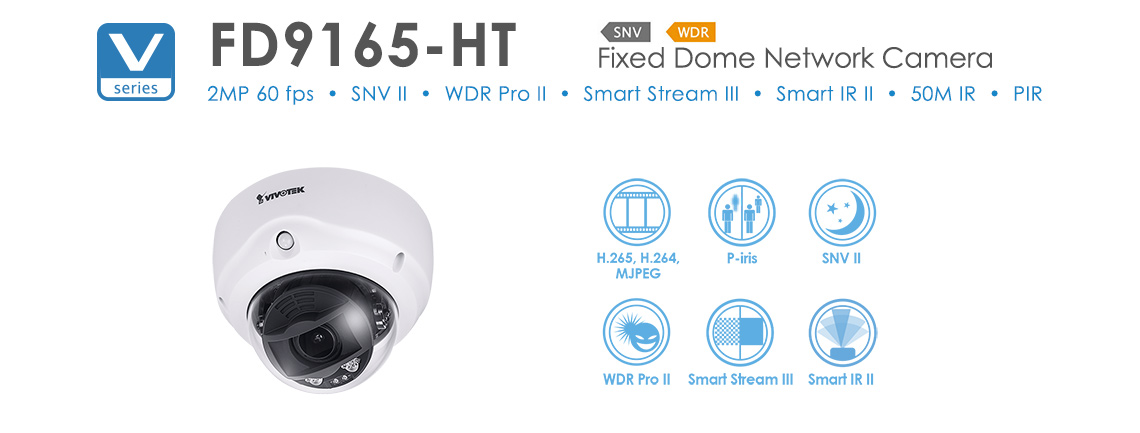
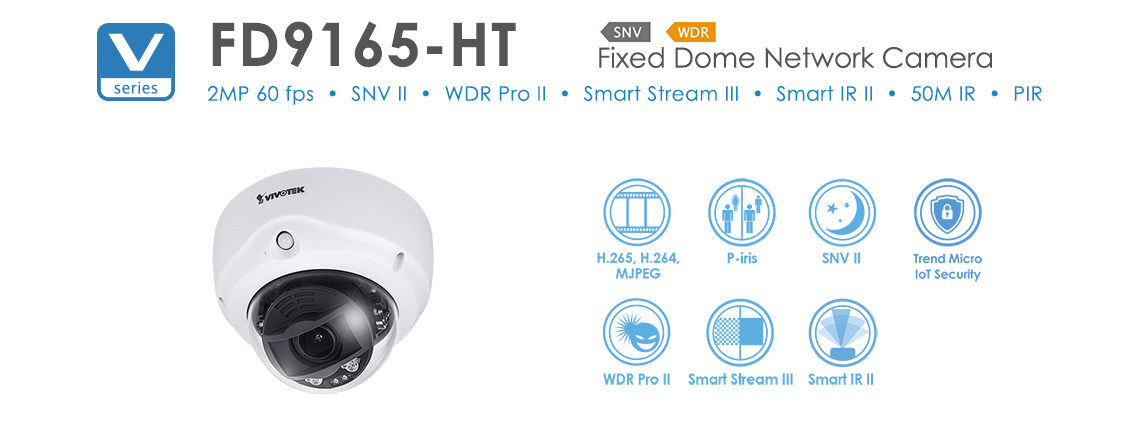
Updates 65 series spec

Changed region(s): [[0.7982, 0.3903, 0.8596, 0.6605]]

diff --git a/fd9365-ehtv/index.html b/fd9365-ehtv/index.html
@@ -928,9 +928,8 @@
             <li>WDR Pro II for Unparalleled Visibility in Extremely Bright and Dark Environments</li>
             <li>Built-in IR Illuminators, Effective up to 50 Meters</li>
             <li>Smart IR II Technology to Avoid Overexposure</li>
-            <li>Two-way Audio</li>
-            <li>3D Noise Reduction for Low-light Conditions</li>
-            <li>Built-in MicroSD/SDHC/SDXC card slot</li>
+            <li>Smart Motion Detection to Reduce False Alarms</li>
+            <li>Trend Micro IoT Security within Standard Warranty Period</li>
             <li>Weather-proof IP66-rated and Vandal-proof IK10-rated Housing</li>
             <li>-50°C ~ 50°C Wide Temperature Range for Extreme Weather Conditions</li>
           </ul>
@@ -1072,7 +1071,7 @@
                           Aperture
                       </td>
                       <td>
-                          F1.3 ~ 2.2
+                          F1.3 ~ F2.2
                       </td>
                   </tr>
                   <tr>
@@ -1235,7 +1234,7 @@
                           Image Settings
                       </td>
                       <td>
-                          Time stamp, text overlay, flip &amp; mirror; Configurable brightness, contrast, saturation, sharpness, white balance, exposure control, gain, backlight compensation, privacy masks; Scheduled profile settings, video Rotation, 3DNR, DIS, HLC
+                          Time stamp, text overlay, flip &amp; mirror; Configurable brightness, contrast, saturation, sharpness, white balance, exposure control, gain, backlight compensation, privacy masks; Scheduled profile settings, video rotation, 3DNR, DIS, HLC
                       </td>
                   </tr>                  
                   <tr class="spec_cal">
@@ -1295,7 +1294,7 @@
                           Protocols
                       </td>
                       <td>
-                          IPv4, IPv6, TCP/IP, HTTP, HTTPS, UPnP, RTSP/RTP/RTCP, IGMP, CIFS/SMB, SMTP, FTP, DHCP, NTP, DNS, DDNS, PPPoE, CoS, QoS, SNMP, 802.1X, UDP, ICMP, ARP, SSL/TLS, NTCIP
+                          IPv4, IPv6, TCP/IP, HTTP, HTTPS, UPnP, RTSP/RTP/RTCP, IGMP, CIFS/SMB, SMTP, FTP, DHCP, NTP, DNS, DDNS, PPPoE, CoS, QoS, SNMP, 802.1X, UDP, ICMP, ARP, SSL/TLS
                       </td>
                   </tr>
                   <tr>
@@ -1322,10 +1321,10 @@
                   </tr>
                   <tr>
                       <td>
-                          Video Motion Detection
+                          Smart Motion Detection
                       </td>
                       <td>
-                          Five-window video motion detection
+                          Five-window video motion detection, human detection, time filter
                       </td>
                   </tr>                  
                   <tr class="spec_cal">

diff --git a/fd9365-htv/index.html b/fd9365-htv/index.html
@@ -928,9 +928,8 @@
             <li>WDR Pro II for Unparalleled Visibility in Extremely Bright and Dark Environments</li>
             <li>Built-in IR Illuminators, Effective up to 50 Meters</li>
             <li>Smart IR II Technology to Avoid Overexposure</li>
-            <li>Two-way Audio</li>
-            <li>3D Noise Reduction for Low-light Conditions</li>
-            <li>Built-in MicroSD/SDHC/SDXC card slot</li>
+            <li>Smart Motion Detection to Reduce False Alarms</li>
+            <li>Trend Micro IoT Security within Standard Warranty Period</li>
             <li>Weather-proof IP66-rated and Vandal-proof IK10-rated Housing</li>
           </ul>
           <div class="div_clear_38"></div>
@@ -1071,7 +1070,7 @@
                           Aperture
                       </td>
                       <td>
-                          F1.3 ~ 2.2
+                          F1.3 ~ F2.2
                       </td>
                   </tr>
                   <tr>
@@ -1234,7 +1233,7 @@
                           Image Settings
                       </td>
                       <td>
-                          Time stamp, text overlay, flip &amp; mirror; Configurable brightness, contrast, saturation, sharpness, white balance, exposure control, gain, backlight compensation, privacy masks; Scheduled profile settings, video Rotation, 3DNR, DIS, HLC
+                          Time stamp, text overlay, flip &amp; mirror; Configurable brightness, contrast, saturation, sharpness, white balance, exposure control, gain, backlight compensation, privacy masks; Scheduled profile settings, video rotation, 3DNR, DIS, HLC
                       </td>
                   </tr>                  
                   <tr class="spec_cal">
@@ -1294,7 +1293,7 @@
                           Protocols
                       </td>
                       <td>
-                          IPv4, IPv6, TCP/IP, HTTP, HTTPS, UPnP, RTSP/RTP/RTCP, IGMP, CIFS/SMB, SMTP, FTP, DHCP, NTP, DNS, DDNS, PPPoE, CoS, QoS, SNMP, 802.1X, UDP, ICMP, ARP, SSL/TLS, NTCIP
+                          IPv4, IPv6, TCP/IP, HTTP, HTTPS, UPnP, RTSP/RTP/RTCP, IGMP, CIFS/SMB, SMTP, FTP, DHCP, NTP, DNS, DDNS, PPPoE, CoS, QoS, SNMP, 802.1X, UDP, ICMP, ARP, SSL/TLS
                       </td>
                   </tr>
                   <tr>
@@ -1321,10 +1320,10 @@
                   </tr>
                   <tr>
                       <td>
-                          Video Motion Detection
+                          Smart Motion Detection
                       </td>
                       <td>
-                          Five-window video motion detection
+                          Five-window video motion detection, human detection, time filter
                       </td>
                   </tr>                  
                   <tr class="spec_cal">

diff --git a/fd9165-ht/index.html b/fd9165-ht/index.html
@@ -928,9 +928,8 @@
             <li>WDR Pro II for Unparalleled Visibility in Extremely Bright and Dark Environments</li>
             <li>Built-in IR Illuminators, Effective up to 50 Meters</li>
             <li>Smart IR II Technology to Avoid Overexposure</li>
-            <li>Two-way Audio</li>
-            <li>3D Noise Reduction for Low-light Conditions</li>
-            <li>Built-in MicroSD/SDHC/SDXC card slot</li>
+            <li>Smart Motion Detection to Reduce False Alarms</li>
+            <li>Trend Micro IoT Security within Standard Warranty Period</li>
           </ul>
           <div class="div_clear_38"></div>
 
@@ -1070,7 +1069,7 @@
                           Aperture
                       </td>
                       <td>
-                          F1.3 ~ 2.2
+                          F1.3 ~ F2.2
                       </td>
                   </tr>
                   <tr>
@@ -1233,7 +1232,7 @@
                           Image Settings
                       </td>
                       <td>
-                          Time stamp, text overlay, flip &amp; mirror; Configurable brightness, contrast, saturation, sharpness, white balance, exposure control, gain, backlight compensation, privacy masks; Scheduled profile settings, video Rotation, 3DNR, DIS, HLC
+                          Time stamp, text overlay, flip &amp; mirror; Configurable brightness, contrast, saturation, sharpness, white balance, exposure control, gain, backlight compensation, privacy masks; Scheduled profile settings, video rotation, 3DNR, DIS, HLC
                       </td>
                   </tr>                  
                   <tr class="spec_cal">
@@ -1293,7 +1292,7 @@
                           Protocols
                       </td>
                       <td>
-                          IPv4, IPv6, TCP/IP, HTTP, HTTPS, UPnP, RTSP/RTP/RTCP, IGMP, CIFS/SMB, SMTP, FTP, DHCP, NTP, DNS, DDNS, PPPoE, CoS, QoS, SNMP, 802.1X, UDP, ICMP, ARP, SSL/TLS, NTCIP
+                          IPv4, IPv6, TCP/IP, HTTP, HTTPS, UPnP, RTSP/RTP/RTCP, IGMP, CIFS/SMB, SMTP, FTP, DHCP, NTP, DNS, DDNS, PPPoE, CoS, QoS, SNMP, 802.1X, UDP, ICMP, ARP, SSL/TLS
                       </td>
                   </tr>
                   <tr>
@@ -1320,10 +1319,10 @@
                   </tr>
                   <tr>
                       <td>
-                          Video Motion Detection
+                          Smart Motion Detection
                       </td>
                       <td>
-                          Five-window video motion detection
+                          Five-window video motion detection, human detection, time filter
                       </td>
                   </tr>                  
                   <tr class="spec_cal">

diff --git a/ib9365-eht/index.html b/ib9365-eht/index.html
@@ -928,9 +928,8 @@
             <li>WDR Pro II (140dB) to Provide Extreme Visibility in Extremely Bright or Dark Environments</li>
             <li>Built-in IR Illuminators, Effective up to 50 Meters</li>
             <li>Smart IR II Technology to Avoid Overexposure</li>
-            <li>Two-way Audio</li>
-            <li>3D Noise Reduction for Low-light Conditions</li>
-            <li>Built-in MicroSD/SDHC/SDXC card slot</li>
+            <li>Smart Motion Detection to Reduce False Alarms</li>
+            <li>Trend Micro IoT Security within Standard Warranty Period</li>
             <li>Weather-proof IP66, IP67 and Vandal-proof IK10-rated Housing</li>
             <li>50°C ~ 50°C Wide Temperature Range for Extreme Weather Conditions</li>
           </ul>
@@ -1084,7 +1083,7 @@
                           Aperture
                       </td>
                       <td>
-                          F1.3 ~ 2.2
+                          F1.3 ~ F2.2
                       </td>
                   </tr>
                   <tr>
@@ -1290,7 +1289,7 @@
                           Protocols
                       </td>
                       <td>
-                          IPv4, IPv6, TCP/IP, HTTP, HTTPS, UPnP, RTSP/RTP/RTCP, IGMP, CIFS/SMB, SMTP, FTP, DHCP, NTP, DNS, DDNS, PPPoE, CoS, QoS, SNMP, 802.1X, UDP, ICMP, ARP, SSL/TLS, NTCIP
+                          IPv4, IPv6, TCP/IP, HTTP, HTTPS, UPnP, RTSP/RTP/RTCP, IGMP, CIFS/SMB, SMTP, FTP, DHCP, NTP, DNS, DDNS, PPPoE, CoS, QoS, SNMP, 802.1X, UDP, ICMP, ARP, SSL/TLS
                       </td>
                   </tr>
                   <tr>
@@ -1317,10 +1316,10 @@
                   </tr>
                   <tr>
                       <td>
-                          Video Motion Detection
+                          Smart Motion Detection
                       </td>
                       <td>
-                          Five-window video motion detection
+                          Five-window video motion detection, human detection, time filter
                       </td>
                   </tr>                  
                   <tr class="spec_cal">

diff --git a/ib9365-ht/index.html b/ib9365-ht/index.html
@@ -928,9 +928,8 @@
             <li>WDR Pro II (140dB) to Provide Extreme Visibility in Extremely Bright or Dark Environments</li>
             <li>Built-in IR Illuminators, Effective up to 50 Meters</li>
             <li>Smart IR II Technology to Avoid Overexposure</li>
-            <li>Two-way Audio</li>
-            <li>3D Noise Reduction for Low-light Conditions</li>
-            <li>Built-in MicroSD/SDHC/SDXC card slot</li>
+            <li>Smart Motion Detection to Reduce False Alarms</li>
+            <li>Trend Micro IoT Security within Standard Warranty Period</li>
             <li>Weather-proof IP66, IP67 and Vandal-proof IK10-rated Housing</li>
           </ul>
           <div class="div_clear_18"></div>
@@ -1083,7 +1082,7 @@
                           Aperture
                       </td>
                       <td>
-                          F1.3 ~ 2.2
+                          F1.3 ~ F2.2
                       </td>
                   </tr>
                   <tr>
@@ -1289,7 +1288,7 @@
                           Protocols
                       </td>
                       <td>
-                          IPv4, IPv6, TCP/IP, HTTP, HTTPS, UPnP, RTSP/RTP/RTCP, IGMP, CIFS/SMB, SMTP, FTP, DHCP, NTP, DNS, DDNS, PPPoE, CoS, QoS, SNMP, 802.1X, UDP, ICMP, ARP, SSL/TLS, NTCIP
+                          IPv4, IPv6, TCP/IP, HTTP, HTTPS, UPnP, RTSP/RTP/RTCP, IGMP, CIFS/SMB, SMTP, FTP, DHCP, NTP, DNS, DDNS, PPPoE, CoS, QoS, SNMP, 802.1X, UDP, ICMP, ARP, SSL/TLS
                       </td>
                   </tr>
                   <tr>
@@ -1316,10 +1315,10 @@
                   </tr>
                   <tr>
                       <td>
-                          Video Motion Detection
+                          Smart Motion Detection
                       </td>
                       <td>
-                          Five-window video motion detection
+                          Five-window video motion detection, human detection, time filter
                       </td>
                   </tr>                  
                   <tr class="spec_cal">
